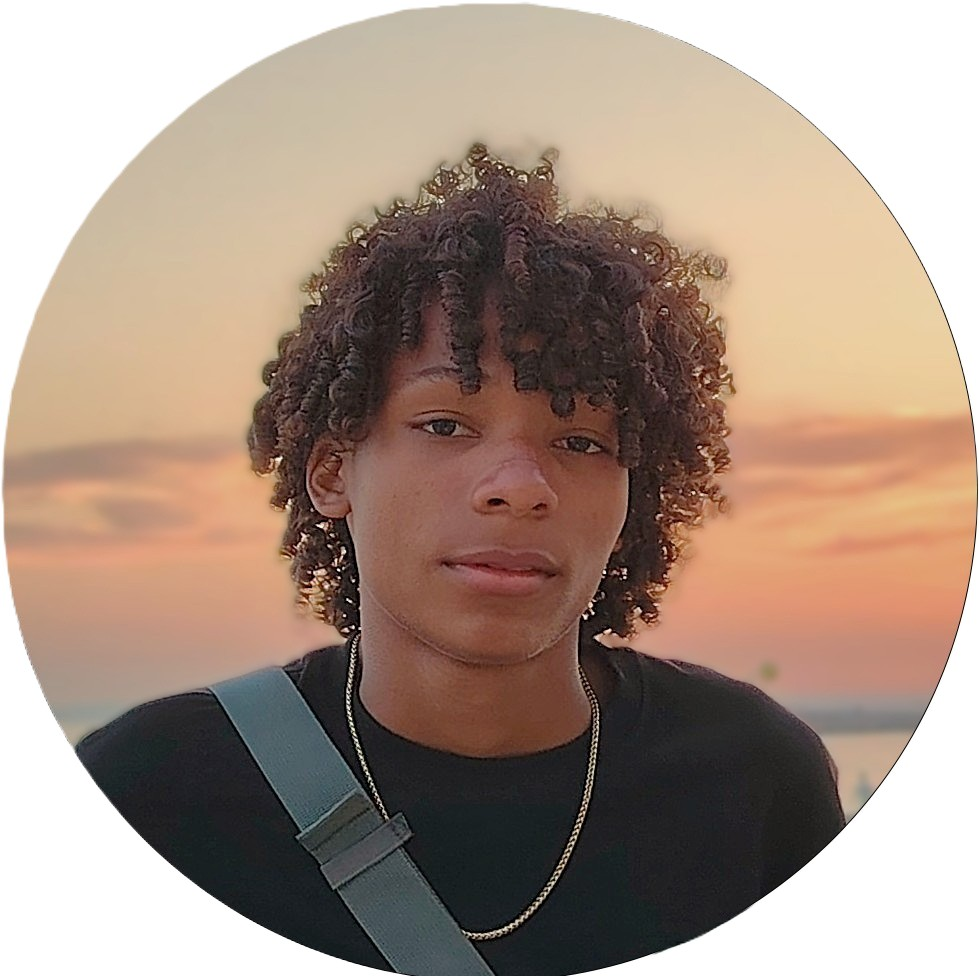
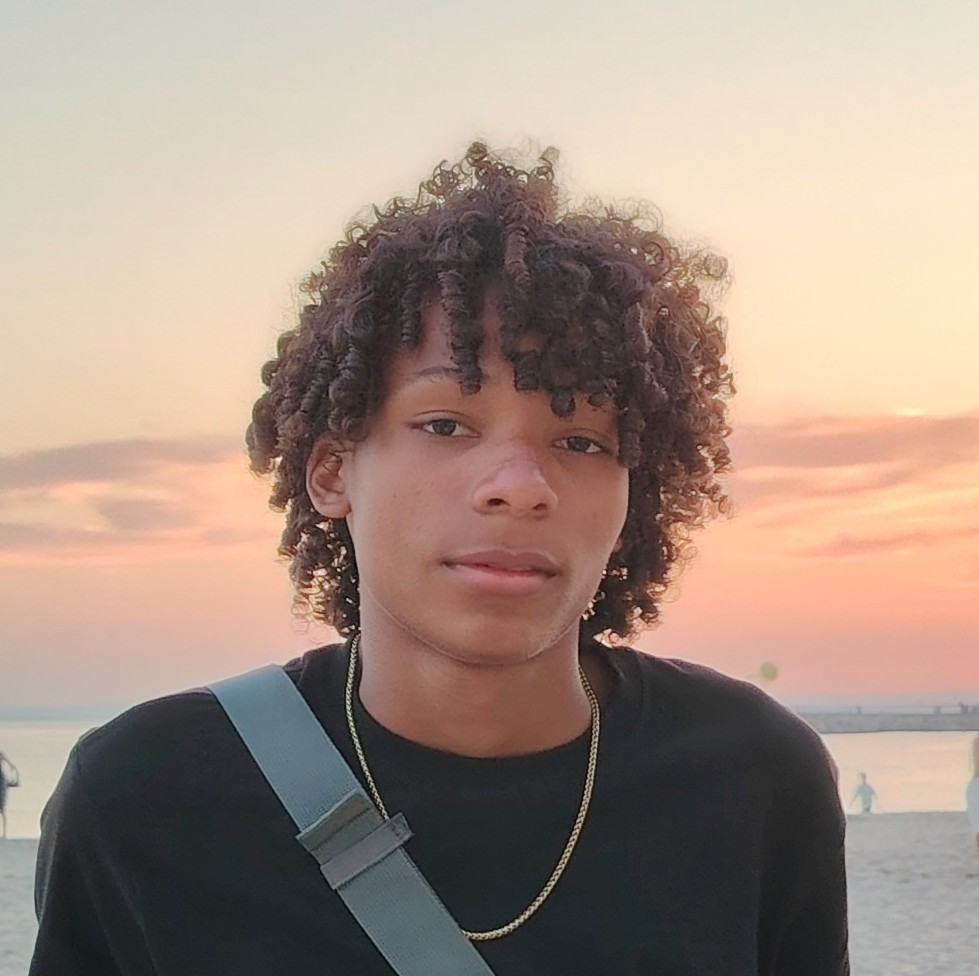
Fix william

diff --git a/style.css b/style.css
@@ -1462,7 +1462,7 @@
 #MOENG img {
     width: 200px;
     height: 200px;
-    border-radius: 15px;
+    border-radius: 100%;
     border: 3px solid rgba(255, 255, 255, 0.4);
     transition: transform 0.6s ease;
 }
